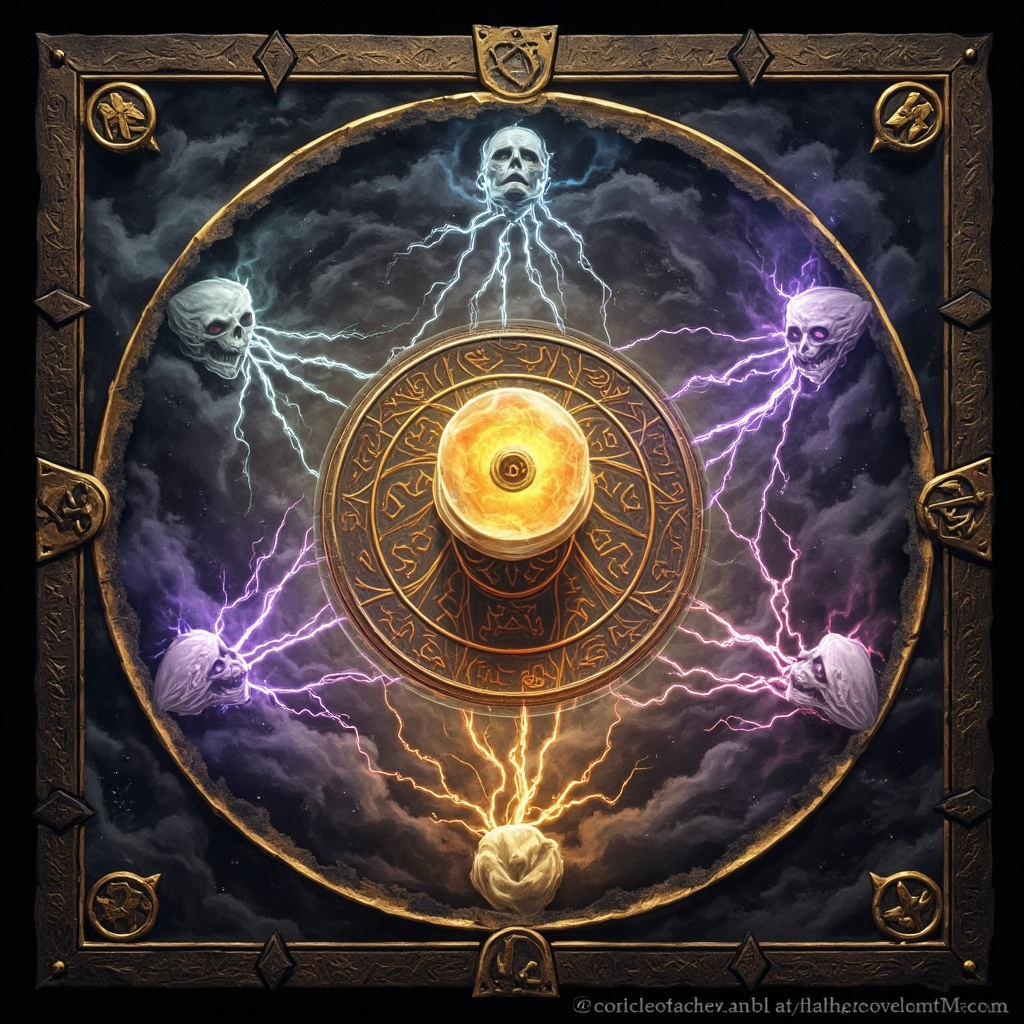
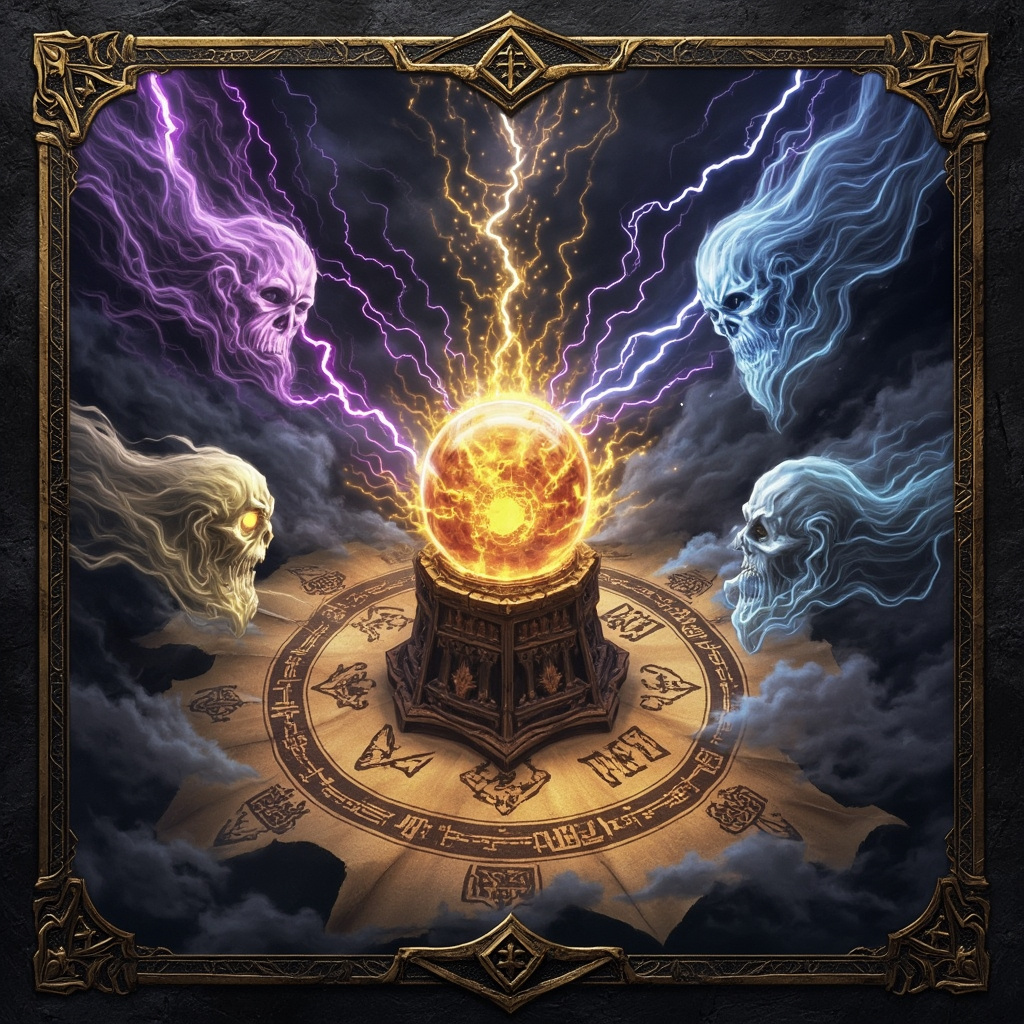
Regenerate storm-investigation art — clean render, no text artifact

diff --git a/guild-data.js b/guild-data.js
@@ -3,14 +3,14 @@
 const GUILD = {
   "meta": {
     "name": "Star Alliance",
-    "generated": "2026-06-26T07:59:06Z",
+    "generated": "2026-06-26T08:13:41Z",
     "schemaVersion": 3,
     "counts": {
       "members": 9,
       "skills": 32,
       "domains": 3,
       "workflows": 7,
-      "log": 43
+      "log": 54
     }
   },
   "members": [
@@ -2549,6 +2549,71 @@ const GUILD = {
   "log": {
     "entries": [
       {
+        "id": 20,
+        "date": "2026-06-26",
+        "type": "chore",
+        "title": "Generated storm-investigation skill art + fixed Fallen Sword art size in gen-skill-art.cjs",
+        "who": "the-quartermaster",
+        "detail": "skill-art/storm-investigation.png backfilled; gen-skill-art.cjs size fix; create-playbook.md updated to require dashboard wiring (commit b02f830 — art/script parts non-derivable).",
+        "ref": [
+          "storm-investigation",
+          "fallen-sword-design-language"
+        ]
+      },
+      {
+        "id": 19,
+        "date": "2026-06-26",
+        "type": "chore",
+        "title": "Generated 11 weapon card art PNGs (weapon-art/)",
+        "who": "the-quartermaster",
+        "detail": "First-ever weapon art for all 11 arsenal weapons, committed in 13983c2 via gen-weapon-art.cjs. Binary blobs, non-derivable.",
+        "ref": [
+          "deepseek-v4-pro",
+          "gemma4",
+          "glm-5.2",
+          "gpt-5.5",
+          "haiku",
+          "kimi-k2.7",
+          "minimax-m3",
+          "nemotron-3-ultra",
+          "opus",
+          "qwen3.5",
+          "sonnet"
+        ]
+      },
+      {
+        "id": 18,
+        "date": "2026-06-26",
+        "type": "chore",
+        "title": "Regenerated all 9 member portrait PNGs (member-art/)",
+        "who": "the-quartermaster",
+        "detail": "All 9 member profile pictures regenerated in the 'Member profile pictures' session, committed as binary blobs in 13983c2. Script derives from .md diffs, not PNG blobs.",
+        "ref": [
+          "the-architect",
+          "the-butler",
+          "the-designer",
+          "the-developer",
+          "the-engineer",
+          "the-merchant",
+          "the-quartermaster",
+          "the-strategist",
+          "the-translator"
+        ]
+      },
+      {
+        "id": 17,
+        "date": "2026-06-26",
+        "type": "structure",
+        "title": "Add harness installer: harness.json + install.py + workflows.json",
+        "who": "the-quartermaster",
+        "detail": "Three NEW untracked files (?? in git status, not in any commit). harness.json = harness manifest v1.0.0. install.py = full guild installer (--to/--domain/--all/--dev/--global/status/uninstall). workflows.json = 3 guild workflows (standard-mission, quick-task, solo-sprint). build_guild_log.py cannot see uncommitted files.",
+        "ref": [
+          "harness.json",
+          "install.py",
+          "workflows.json"
+        ]
+      },
+      {
         "id": 16,
         "date": "2026-06-26",
         "type": "dashboard",
@@ -2720,6 +2785,80 @@ const GUILD = {
       },
       {
         "date": "2026-06-26",
+        "type": "skill-upgrade",
+        "title": "Upgrade storm-investigation to 1.0.0",
+        "who": "Atta",
+        "ref": [
+          "storm-investigation"
+        ],
+        "from": "",
+        "to": "1.0.0",
+        "commit": "78513bd5",
+        "_derived": true,
+        "id": "g-78513bd5-upgrade-storm-investigation-to-1-0-0"
+      },
+      {
+        "date": "2026-06-26",
+        "type": "skill-create",
+        "title": "Add skill: storm-investigation",
+        "who": "Atta",
+        "ref": [
+          "storm-investigation"
+        ],
+        "commit": "78513bd5",
+        "_derived": true,
+        "id": "g-78513bd5-add-skill-storm-investigation"
+      },
+      {
+        "date": "2026-06-26",
+        "type": "member-upgrade",
+        "title": "Update member: the-butler",
+        "who": "Atta",
+        "ref": [
+          "the-butler"
+        ],
+        "commit": "78513bd5",
+        "_derived": true,
+        "id": "g-78513bd5-update-member-the-butler"
+      },
+      {
+        "date": "2026-06-26",
+        "type": "member-upgrade",
+        "title": "Update member: the-merchant",
+        "who": "Atta",
+        "ref": [
+          "the-merchant"
+        ],
+        "commit": "78513bd5",
+        "_derived": true,
+        "id": "g-78513bd5-update-member-the-merchant"
+      },
+      {
+        "date": "2026-06-26",
+        "type": "member-upgrade",
+        "title": "Update member: the-quartermaster",
+        "who": "Atta",
+        "ref": [
+          "the-quartermaster"
+        ],
+        "commit": "78513bd5",
+        "_derived": true,
+        "id": "g-78513bd5-update-member-the-quartermaster"
+      },
+      {
+        "date": "2026-06-26",
+        "type": "member-upgrade",
+        "title": "Update member: the-strategist",
+        "who": "Atta",
+        "ref": [
+          "the-strategist"
+        ],
+        "commit": "78513bd5",
+        "_derived": true,
+        "id": "g-78513bd5-update-member-the-strategist"
+      },
+      {
+        "date": "2026-06-26",
         "type": "skill-create",
         "title": "Add skill: guild-log",
         "who": "Atta",
@@ -2741,6 +2880,20 @@ const GUILD = {
         "commit": "650b7781",
         "_derived": true,
         "id": "g-650b7781-add-skill-impeccable"
+      },
+      {
+        "date": "2026-06-26",
+        "type": "skill-upgrade",
+        "title": "Upgrade guild-log to 1.1.0",
+        "who": "Atta",
+        "ref": [
+          "guild-log"
+        ],
+        "from": "",
+        "to": "1.1.0",
+        "commit": "13983c21",
+        "_derived": true,
+        "id": "g-13983c21-upgrade-guild-log-to-1-1-0"
       },
       {
         "date": "2026-06-24",
@@ -3116,6 +3269,6 @@ const GUILD = {
         "id": "g-325a46a5-add-skill-conquering-campaign"
       }
     ],
-    "count": 43
+    "count": 54
   }
 };